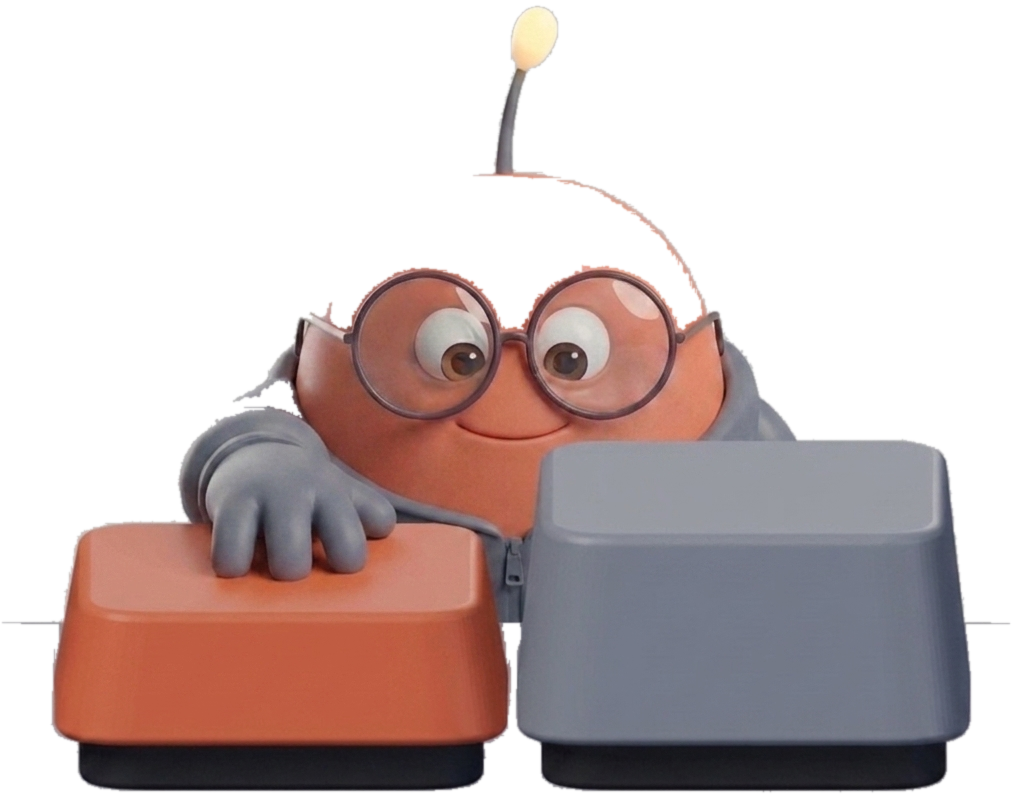
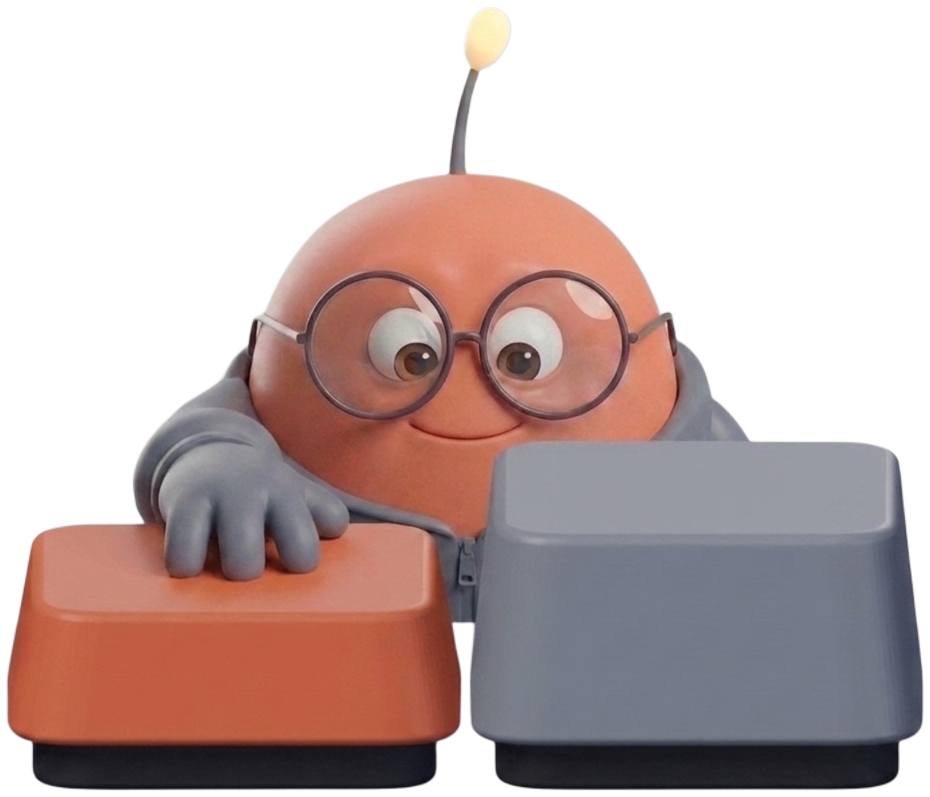
Swap in clean keycap cutouts, scale Dott down, add CI
Assets
- Replace flood-filled press frames with the externally cut-out versions.
  Verified each against its source render by masked pixel diff rather than
  trusting filenames, and picked the closer of the two closeup exports.
- cutout.py gains --keep-alpha: skip the flood fill, keep the supplied alpha,
  but still apply the shared group crop. Per-file cropping causes sprite
  jitter regardless of who removed the background.
- Tighter silhouettes shrink the canvas 1018x841 -> 930x841, raising useful
  pixel coverage from 0.46 to 0.54.

Size
- Default 240 -> 170 (window 188x170). It sits above everything all day;
  ambient presence beats a mascot competing with the work.
- Tray presets rescaled: 110/140/170/240/340.

Open source
- Answers PRD open question 1: public. Signing and notarization become
  required, not optional.
- CI matrix (macOS + Windows): typecheck, test, build, then launch the real
  app and assert the window flags each OS actually applied.
- Self-test watchdog so a window that never appears fails CI with a message
  instead of hanging to the job timeout.
- No LICENSE yet, deliberately: unlicensed defaults to all-rights-reserved,
  which can be loosened later but never tightened. Code/art split needs a
  human decision first — see EXECUTION-PLAN.md section 10.

diff --git a/src/main/config.ts b/src/main/config.ts
@@ -22,8 +22,14 @@ export const PositionSchema = z.object({
 export const ConfigSchema = z.object({
   version: z.literal(1).default(1),
   characterName: z.string().default('dott'),
-  /** Window height in DIP. Width follows from the character's aspect ratio. */
-  size: z.number().min(64).max(512).default(240),
+  /**
+   * Window height in DIP. Width follows from the character's aspect ratio.
+   *
+   * 170 is deliberately modest: this thing sits on top of everything, all day.
+   * Ambient presence is the goal, not a mascot that competes with the work.
+   * Users who want more can scale up to 512 via ctrl+scroll or the tray.
+   */
+  size: z.number().min(64).max(512).default(170),
   position: PositionSchema.nullable().default(null),
   /** Every context integration is opt-in and off by default (FR-13). */
   integrations: z

diff --git a/src/main/index.ts b/src/main/index.ts
@@ -102,6 +102,15 @@ app.whenReady().then(() => {
     if (outDir && overlay) void runSelfTest(overlay, outDir)
   })
 
+  if (process.env.DOTT_SELFTEST) {
+    // Without this, a window that never becomes ready hangs CI until the job
+    // timeout rather than failing with a usable message.
+    setTimeout(() => {
+      console.error('[selftest] timed out waiting for the overlay')
+      app.exit(1)
+    }, 60_000)
+  }
+
   ipcMain.handle('dott:boot', () => bootPayload())
 
   ipcMain.on('dott:set-interactive', (_e, interactive: boolean) => {

diff --git a/src/main/tray.ts b/src/main/tray.ts
@@ -15,10 +15,11 @@ export interface TrayHandlers {
 }
 
 const SIZE_PRESETS: ReadonlyArray<[string, number]> = [
-  ['Small (120)', 120],
-  ['Medium (240)', 240],
-  ['Large (360)', 360],
-  ['Huge (480)', 480],
+  ['Tiny (110)', 110],
+  ['Small (140)', 140],
+  ['Medium (170)', 170],
+  ['Large (240)', 240],
+  ['Huge (340)', 340],
 ]
 
 function trayIcon(): Electron.NativeImage {

diff --git a/tools/cutout.py b/tools/cutout.py
@@ -121,13 +121,24 @@ def _union(a, b):
     return (min(a[0], b[0]), min(a[1], b[1]), max(a[2], b[2]), max(a[3], b[3]))
 
 
-def cutout_group(pairs, tol=5, feather=0.8, pad=6, min_frac=0.004):
-    """pairs: list of (src_path, out_path). All outputs share one canvas."""
+def cutout_group(pairs, tol=5, feather=0.8, pad=6, min_frac=0.004, keep_alpha=False):
+    """
+    pairs: list of (src_path, out_path). All outputs share one canvas.
+
+    keep_alpha=True skips the flood fill and trusts the source's own alpha,
+    for art that arrived already cut out by an external tool. The group-crop
+    still matters in that case -- arguably more so, since each file may have
+    been exported with different margins, and per-file cropping is what makes a
+    sprite jitter as it cycles.
+    """
     frames = []
     box = None
     for src, out in pairs:
-        im = Image.open(src).convert("RGB")
-        alpha = compute_alpha(im, tol=tol, min_frac=min_frac)
+        im = Image.open(src).convert("RGBA")
+        if keep_alpha:
+            alpha = im.getchannel("A")
+        else:
+            alpha = compute_alpha(im.convert("RGB"), tol=tol, min_frac=min_frac)
         bb = alpha.point(lambda v: 255 if v > 8 else 0).getbbox()
         box = _union(box, bb)
         frames.append((src, out, im, alpha))
@@ -146,9 +157,11 @@ def cutout_group(pairs, tol=5, feather=0.8, pad=6, min_frac=0.004):
     box = (max(0, l - pad), max(0, t - pad), min(W, r + pad), min(H, b + pad))
 
     for src, out, im, alpha in frames:
-        if feather:
+        # Externally-cut art is already anti-aliased at the edge; blurring it
+        # again just makes the silhouette mushy.
+        if feather and not keep_alpha:
             alpha = alpha.filter(ImageFilter.GaussianBlur(feather))
-        rgba = im.convert("RGBA")
+        rgba = im.copy()
         rgba.putalpha(alpha)
         rgba = rgba.crop(box)
         rgba.save(out)
@@ -160,9 +173,12 @@ if __name__ == "__main__":
     opts = {}
     rest = []
     group = False
+    keep_alpha = False
     for a in sys.argv[1:]:
         if a == "--group":
             group = True
+        elif a == "--keep-alpha":
+            keep_alpha = True
         elif a.startswith("--"):
             k, _, v = a[2:].partition("=")
             opts[k] = float(v) if v else True
@@ -173,6 +189,7 @@ if __name__ == "__main__":
         tol=opts.get("tol", 5),
         min_frac=opts.get("minfrac", 0.004),
         pad=int(opts.get("pad", 6)),
+        keep_alpha=keep_alpha,
     )
 
     if group:

diff --git a/EXECUTION-PLAN.md b/EXECUTION-PLAN.md
@@ -234,12 +234,33 @@ Since this project is explicitly a DevOps practice surface (G4), the pipeline is
 
 The PRD's four open questions do not block starting. Q1 is the only one that changes engineering:
 
-1. **Personal / friends / public?** Personal-only means signing is optional and M4 shrinks a lot. Public means signing, notarization and a privacy policy are all mandatory. **Assumption until told otherwise: build as if public** — it costs little at M0–M3 and avoids a painful retrofit.
+1. ~~**Personal / friends / public?**~~ **ANSWERED (Aug 13): public, open-source on GitHub.** The build-as-if-public assumption was correct, so nothing needs retrofitting. Consequences now binding rather than optional:
+   - Code signing and notarization move from "nice to have" to **required** — an unsigned public download containing a keyboard hook is a non-starter. Start the Apple Developer and Azure Trusted Signing accounts now (§7).
+   - A **licensing split** is needed before the repo goes public: the code and the character art should not share a licence. See §10.
+   - The privacy story for M2 becomes public-facing documentation, not a personal note. Strangers will read the keyboard-hook code specifically to check it; the `utilityProcess` design (§4.2) is what makes that check take thirty seconds.
+   - §11's original-character requirement is now load-bearing rather than precautionary.
 2. Moddable character packs vs curated? — affects manifest validation strictness only. Decide at M4.
 3. Monetization? — no engineering impact at v1.
 4. Show/hide hotkey? — **proposed default `Cmd/Ctrl+Shift+D`** ("D for DOTT"), user-rebindable in settings.
 
 ---
+
+## 10. Licensing — decide before the repo goes public
+
+This is the one open decision that actually blocks publishing, and it needs a human call rather than a default.
+
+**The code and the character art should not share a licence.** They are different assets with different risks:
+
+- **The code** is a desktop-pet engine. Permissive licensing (MIT/Apache-2.0) costs nothing and is what makes an open-source project worth publishing — people can learn from the overlay and manifest work, which is the genuinely reusable part.
+- **The art is Dott himself** — a commissioned, original character and the project's actual identity. Under MIT, anyone could ship "Dott" in their own product, sell character packs of him, or use him as branding. Once published under a permissive licence that grant is irrevocable.
+
+**Recommendation:** MIT (or Apache-2.0, which adds an explicit patent grant) for everything in `src/` and `tools/`, and a separate, more restrictive licence for `characters/` — CC BY-NC-ND 4.0 is the usual fit, or plain "all rights reserved" if you want to keep every option open. State the split in `README.md` and put a `characters/LICENSE` next to the art so it travels with the files.
+
+Note that GitHub's licence picker assumes one licence for the whole repo, so the split has to be written out explicitly or it will be misread.
+
+**Until this is decided, no `LICENSE` file should be added.** A public repo with no licence defaults to all-rights-reserved, which is the safe state — it can always be loosened later, never tightened.
+
+Worth a quick read of the original commission terms too, to confirm the art is yours to license rather than licensed to you.
 
 ## 9. Immediate next actions
 

diff --git a/README.md b/README.md
@@ -6,7 +6,8 @@ Cross-platform (macOS + Windows), built on Electron.
 See [EXECUTION-PLAN.md](EXECUTION-PLAN.md) for the full roadmap and
 [PRD-Desktop-Companion-App.md](../PRD-Desktop-Companion-App.md) for requirements.
 
-Status: **M1 (MVP) — overlay engine complete on macOS.**
+Status: **M1 (MVP) — overlay engine complete on macOS.** Default size is 170px tall;
+change it from the menu-bar icon or with `Cmd/Ctrl + scroll`.
 
 ## Quick start
 
@@ -61,12 +62,16 @@ animation. Drag bypasses dwell, since direct manipulation must feel immediate.
 
 ## Asset pipeline
 
-Renders arrive as stills with a studio backdrop. Two stages:
+Renders arrive as stills, sometimes with a studio backdrop and sometimes
+already cut out. Two stages:
 
 1. **`tools/cutout.py`** — one-time art prep, run manually when new renders
-   land. Border-seeded flood fill removes the backdrop. Frames belonging to one
-   state are cropped to a **shared** canvas; cropping each to its own bounding
-   box is what makes a sprite jitter as it cycles.
+   land. Border-seeded flood fill removes the backdrop, or `--keep-alpha`
+   trusts the source's own alpha for art cut out by an external tool. Either
+   way, frames belonging to one state are cropped to a **shared** canvas;
+   cropping each to its own bounding box is what makes a sprite jitter as it
+   cycles, and it bites just as hard with externally-supplied cutouts, since
+   each file may have been exported with different margins.
 2. **`tools/pack-sprites.py`** — the build step. Normalises every frame from
    every state onto one global canvas, bottom-centre anchored, packs per-state
    atlases, de-duplicates frames used more than once in a sequence, computes
@@ -111,6 +116,16 @@ Specific things to check there:
 - Transparent windows can't be natively resized on Windows; resizing already
   goes through `setBounds()` on both platforms to keep one code path.
 - Tray icon rendering and the `screen-saver` always-on-top level.
+
+## Licensing
+
+**Not yet licensed** — a public repo with no `LICENSE` is all-rights-reserved,
+which is the deliberate safe default until the split is decided.
+
+The intent is two licences, because the code and the character are different
+things: something permissive for `src/` and `tools/`, and something more
+restrictive for `characters/` so Dott's likeness isn't given away irrevocably.
+See [EXECUTION-PLAN.md](EXECUTION-PLAN.md) §10.
 
 ## Not yet implemented
 
